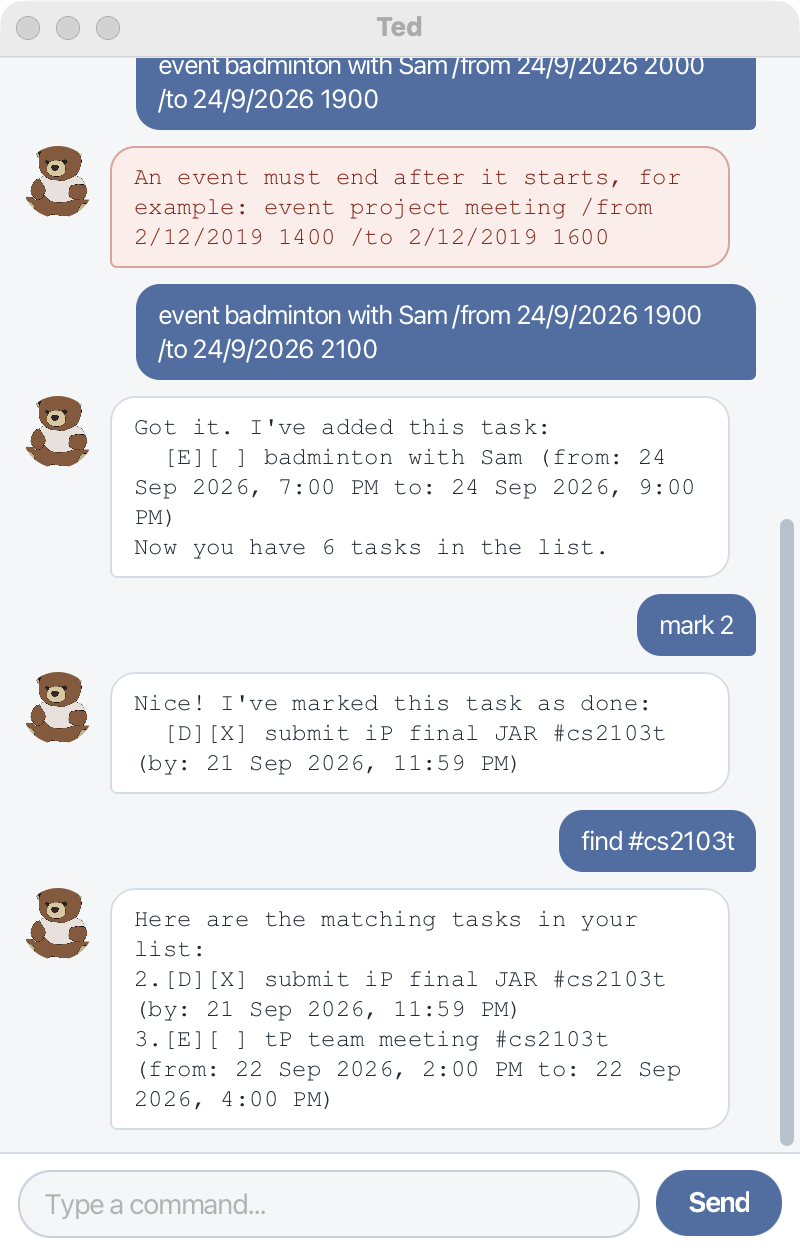
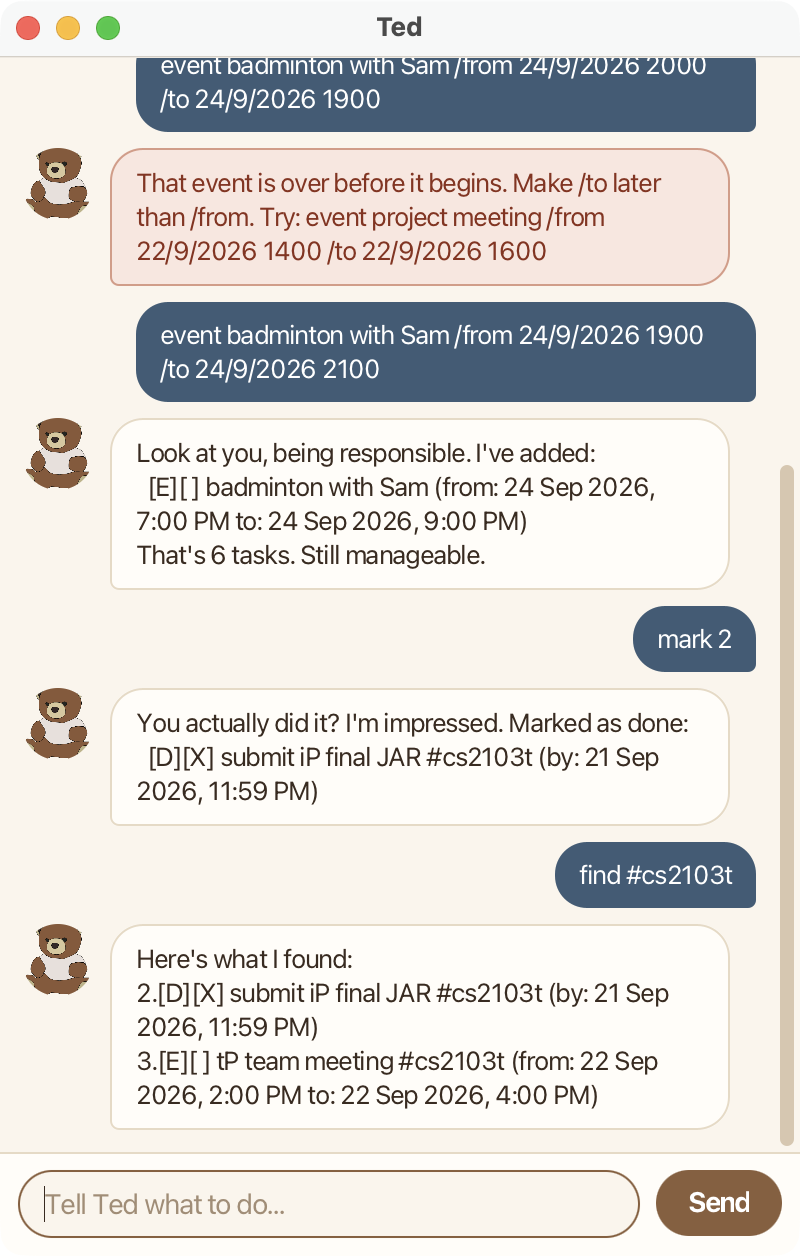
Update the guide and screenshot for Ted's new voice
The user guide's example replies, the README's sample output and
docs/Ui.png all show Ted as he was before A-Personality: the old
wording, the ASCII banner and the blue window.

A user comparing the guide with the app would see different replies
from the ones documented.

Let's replace each example with Ted's reply from a real run, introduce
Ted as a cheeky teddy bear, show what a red error reply looks like,
and retake the screenshot in the new colors.

diff --git a/docs/README.md b/docs/README.md
@@ -2,9 +2,10 @@
 
 ![Ted's window, showing a task list and a few commands](Ui.png)
 
-Ted is a chatbot that keeps track of your todos, deadlines and events. You type a
-short command, and Ted replies, so managing your tasks is as quick as sending a message.
-Ted saves your tasks after every change, so they are still there next time you open it.
+Ted is a cheeky teddy bear who keeps track of your todos, deadlines and events. You type
+a short command and Ted replies, so managing your tasks is as quick as sending a message.
+He will tease you a little along the way, but he always gets the job done, and he saves
+your tasks after every change so they are still there next time.
 
 * [Quick start](#quick-start)
 * [Features](#features)
@@ -43,8 +44,8 @@ Ted saves your tasks after every change, so they are still there next time you o
   e.g. `25/9/2026 1800` for 25 September 2026 at 6 pm.
 * Command words can be typed in any case: `list`, `List` and `LIST` all work.
 * Extra spaces between words are ignored.
-* If Ted cannot follow a command, it replies in red, explains what went wrong, and shows
-  an example of the right format. Nothing in your list changes.
+* If Ted cannot follow a command, his reply turns red, explains what went wrong, and ends
+  with `Try:` and an example that works. Nothing in your list changes.
 
 Each task is shown with two boxes in front of it:
 
@@ -65,9 +66,9 @@ Format: `todo DESCRIPTION`
 Example: `todo borrow book`
 
 ```
-Got it. I've added this task:
+Look at you, being responsible. I've added:
   [T][ ] borrow book
-Now you have 1 task in the list.
+That's 1 task. A small start, but a start.
 ```
 
 ### Adding a deadline: `deadline`
@@ -79,9 +80,9 @@ Format: `deadline DESCRIPTION /by DATE TIME`
 Example: `deadline return book /by 25/9/2026 1800`
 
 ```
-Got it. I've added this task:
+Look at you, being responsible. I've added:
   [D][ ] return book (by: 25 Sep 2026, 6:00 PM)
-Now you have 2 tasks in the list.
+That's 2 tasks. Still manageable.
 ```
 
 ### Adding an event: `event`
@@ -95,9 +96,15 @@ Format: `event DESCRIPTION /from DATE TIME /to DATE TIME`
 Example: `event project meeting /from 22/9/2026 1400 /to 22/9/2026 1600`
 
 ```
-Got it. I've added this task:
+Look at you, being responsible. I've added:
   [E][ ] project meeting (from: 22 Sep 2026, 2:00 PM to: 22 Sep 2026, 4:00 PM)
-Now you have 3 tasks in the list.
+That's 3 tasks. Still manageable.
+```
+
+If the end is not after the start, Ted says so and shows a format that works:
+
+```
+That event is over before it begins. Make /to later than /from. Try: event project meeting /from 22/9/2026 1400 /to 22/9/2026 1600
 ```
 
 Ted will not add a task you already have. A task counts as the same if it is the same
@@ -110,7 +117,7 @@ Shows every task, numbered in the order you added them.
 Format: `list`
 
 ```
-Here are the tasks in your list:
+Here's everything you said you'd do:
 1.[T][ ] borrow book
 2.[D][ ] return book (by: 25 Sep 2026, 6:00 PM)
 3.[E][ ] project meeting (from: 22 Sep 2026, 2:00 PM to: 22 Sep 2026, 4:00 PM)
@@ -125,13 +132,13 @@ Format: `mark INDEX` or `unmark INDEX`
 Example: `mark 1`
 
 ```
-Nice! I've marked this task as done:
+You actually did it? I'm impressed. Marked as done:
   [T][X] borrow book
 ```
 
 ### Deleting a task: `delete`
 
-Removes a task from the list for good. Ted shows the task it removed, so you can check it
+Removes a task from the list for good. Ted shows the task he removed, so you can check it
 was the one you meant.
 
 Format: `delete INDEX`
@@ -139,9 +146,9 @@ Format: `delete INDEX`
 Example: `delete 3`
 
 ```
-Noted. I've removed this task:
+Gone, just like that. I've removed:
   [E][ ] project meeting (from: 22 Sep 2026, 2:00 PM to: 22 Sep 2026, 4:00 PM)
-Now you have 2 tasks in the list.
+That's 2 tasks. Still manageable.
 ```
 
 The tasks after it move up by one, so run `list` again before using another number.
@@ -160,7 +167,7 @@ Format: `find KEYWORD`
 Example: `find book`
 
 ```
-Here are the matching tasks in your list:
+Here's what I found:
 1.[T][ ] borrow book
 2.[D][ ] return book #library (by: 25 Sep 2026, 6:00 PM)
 ```
@@ -180,7 +187,7 @@ Format: `tag INDEX #TAG [#TAG]...` or `untag INDEX #TAG [#TAG]...`
 Example: `tag 2 #library #urgent`
 
 ```
-OK, I've tagged this task:
+Fancy. I've tagged it:
   [D][ ] return book #library #urgent (by: 25 Sep 2026, 6:00 PM)
 ```
 
@@ -195,7 +202,7 @@ Format: `find #TAG`
 Example: `find #library`
 
 ```
-Here are the matching tasks in your list:
+Here's what I found:
 2.[D][ ] return book #library (by: 25 Sep 2026, 6:00 PM)
 ```
 
@@ -205,13 +212,17 @@ Says goodbye and closes the window a moment later. You can also just close the w
 
 Format: `bye`
 
+```
+Leaving already? Fine. I'll be here on the shelf. Bye!
+```
+
 ## Saving your tasks
 
 Ted saves your tasks after every change, to `data/ted.txt` inside the folder you started
 Ted from. There is no save command.
 
-You can edit `data/ted.txt` in a text editor, but be careful. If Ted finds a line it
-cannot read when it starts, it skips that line, tells you how many it skipped, and keeps
+You can edit `data/ted.txt` in a text editor, but be careful. If Ted finds a line he
+cannot read when he starts, he skips that line, tells you how many he skipped, and keeps
 a copy of the original file as `data/ted.txt.bak`. That way, nothing is lost when Ted next
 saves.
 

diff --git a/README.md b/README.md
@@ -1,6 +1,6 @@
 # Ted
 
-Ted is a chatbot that keeps track of your todos, deadlines and events. Given below are instructions on how to set it up.
+Ted is a cheeky teddy bear chatbot that keeps track of your todos, deadlines and events. Given below are instructions on how to set it up.
 
 ## Setting up in Intellij
 
@@ -15,11 +15,10 @@ Prerequisites: JDK 25, update Intellij to the most recent version.
    In the same dialog, set the **Project language level** field to the `SDK default` option.
 1. After that, locate the `src/main/java/ted/Ted.java` file, right-click it, and choose `Run Ted.main()` (if the code editor is showing compile errors, try restarting the IDE). If the setup is correct, you should see something like the below as the output:
    ```
-    _____ _____ ____  
-   |_   _| ____|  _ \ 
-     | | |  _| | | | |
-     | | | |___| |_| |
-     |_| |_____|____/ 
+   ____________________________________________________________
+   Oh good, you're here. I'm Ted: professional teddy bear, part-time life coach.
+   What do you need to get done today?
+   ____________________________________________________________
    ```
 1. To open Ted's window instead, run `src/main/java/ted/Launcher.java` the same way, or run `./gradlew run` from the project folder.
 
